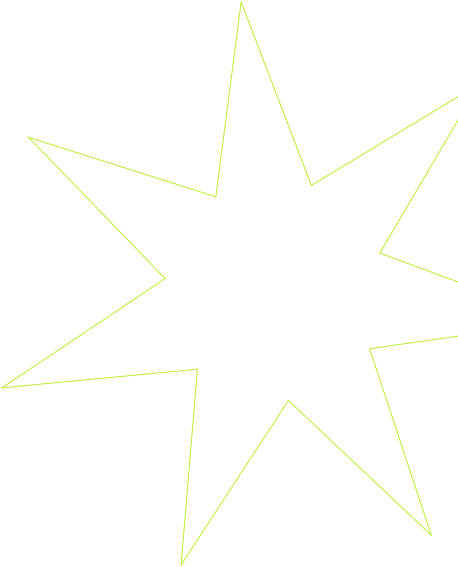
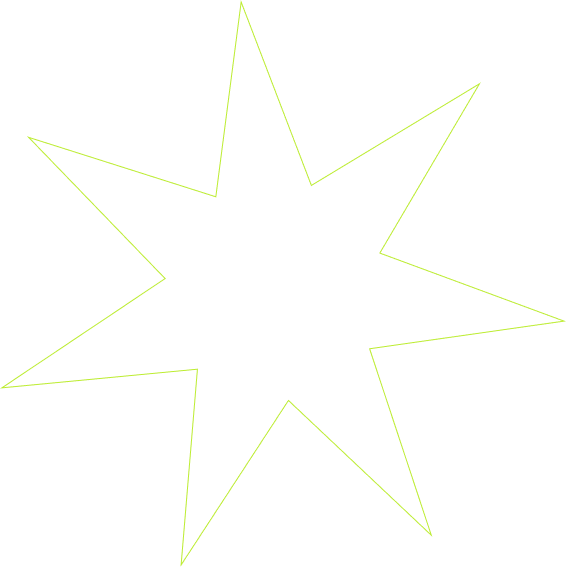
Добавлены звезды на background в main

diff --git a/style.scss b/style.scss
@@ -158,6 +158,16 @@ h3 {
     transition: all 0.3s ease;
 }
 
+.main {
+    position: relative;
+
+    &__big-star {
+        position: absolute;
+        top: 120px;
+        left: 933px;
+    }
+}
+
 .ticker {
     position: relative;
     z-index: 1;
@@ -182,28 +192,48 @@ h3 {
 }
 
 .info {
+    position: relative;
     display: flex;
     padding-top: 94px;
     padding-bottom: 144px;
     background-color: #202027;
     gap: 24px;
     flex-direction: column;
-}
 
-.info__title {
-    color: $color-white;
-}
+    &__title {
+        color: $color-white;
+    }
+    
+    &__text {
+        color: $color-white;
+    }
+    
+    &__games {
+        z-index: 1;
+        column-count: 3;
+        column-gap: 0; 
+        gap: 32px;
+        align-items: start;
+        margin-top: 48px;
+    }
 
-.info__text {
-    color: $color-white;
-}
+    &__smaller-star {
+        position: absolute;
+        width: 31px;
+        height: 31px;
+        top: 770px;
+        left: 25px;
+        transform: rotate(5.45deg);
+    }
 
-.info__games {
-    column-count: 3;
-    column-gap: 0; 
-    gap: 32px;
-    align-items: start;
-    margin-top: 48px;
+    &__small-star {
+        position: absolute;
+        width: 54px;
+        height: 54px;
+        top: 822px;
+        left: 40px;
+        transform: rotate(5.45deg);
+    }
 }
 
 .info__game-card {

diff --git a/index.html b/index.html
@@ -31,7 +31,7 @@
         </div>
     </header>
 
-    <main>
+    <main class="main">
         <div class="ticker">
             <p class="ticker-text">Викторина</p>
             <img src="img/ticker_star.png" alt="ticker_star">
@@ -51,7 +51,11 @@
             <p class="info__text text-regular">В моей коллекции представлено 6 игр на разные темы.<br>
                 Игры несложные — в них может поиграть каждый.<br>
                 Все игры доступны для пользования.</p>
-
+            <img src="img/main_big-star.png" alt="main_big-star" class="main__big-star">
+            
+            <img src="img/main_small-star.png" alt="info_smaller-star" class="info__smaller-star">
+            <img src="img/main_small-star.png" alt="info_small-star" class="info__small-star">
+            
             <div class="info__games">
                 <a href="index.html">
                     <article class="info__game-card info__game-card--1">

diff --git a/style.css b/style.css
@@ -150,6 +150,15 @@ h3 {
   transition: all 0.3s ease;
 }
 
+.main {
+  position: relative;
+}
+.main__big-star {
+  position: absolute;
+  top: 120px;
+  left: 933px;
+}
+
 .ticker {
   position: relative;
   z-index: 1;
@@ -174,6 +183,7 @@ h3 {
 }
 
 .info {
+  position: relative;
   display: flex;
   padding-top: 94px;
   padding-bottom: 144px;
@@ -181,16 +191,14 @@ h3 {
   gap: 24px;
   flex-direction: column;
 }
-
 .info__title {
   color: #FFFFFF;
 }
-
 .info__text {
   color: #FFFFFF;
 }
-
 .info__games {
+  z-index: 1;
   -moz-column-count: 3;
        column-count: 3;
   -moz-column-gap: 0;
@@ -198,6 +206,22 @@ h3 {
   gap: 32px;
   align-items: start;
   margin-top: 48px;
+}
+.info__smaller-star {
+  position: absolute;
+  width: 31px;
+  height: 31px;
+  top: 770px;
+  left: 25px;
+  transform: rotate(5.45deg);
+}
+.info__small-star {
+  position: absolute;
+  width: 54px;
+  height: 54px;
+  top: 822px;
+  left: 40px;
+  transform: rotate(5.45deg);
 }
 
 .info__game-card {
